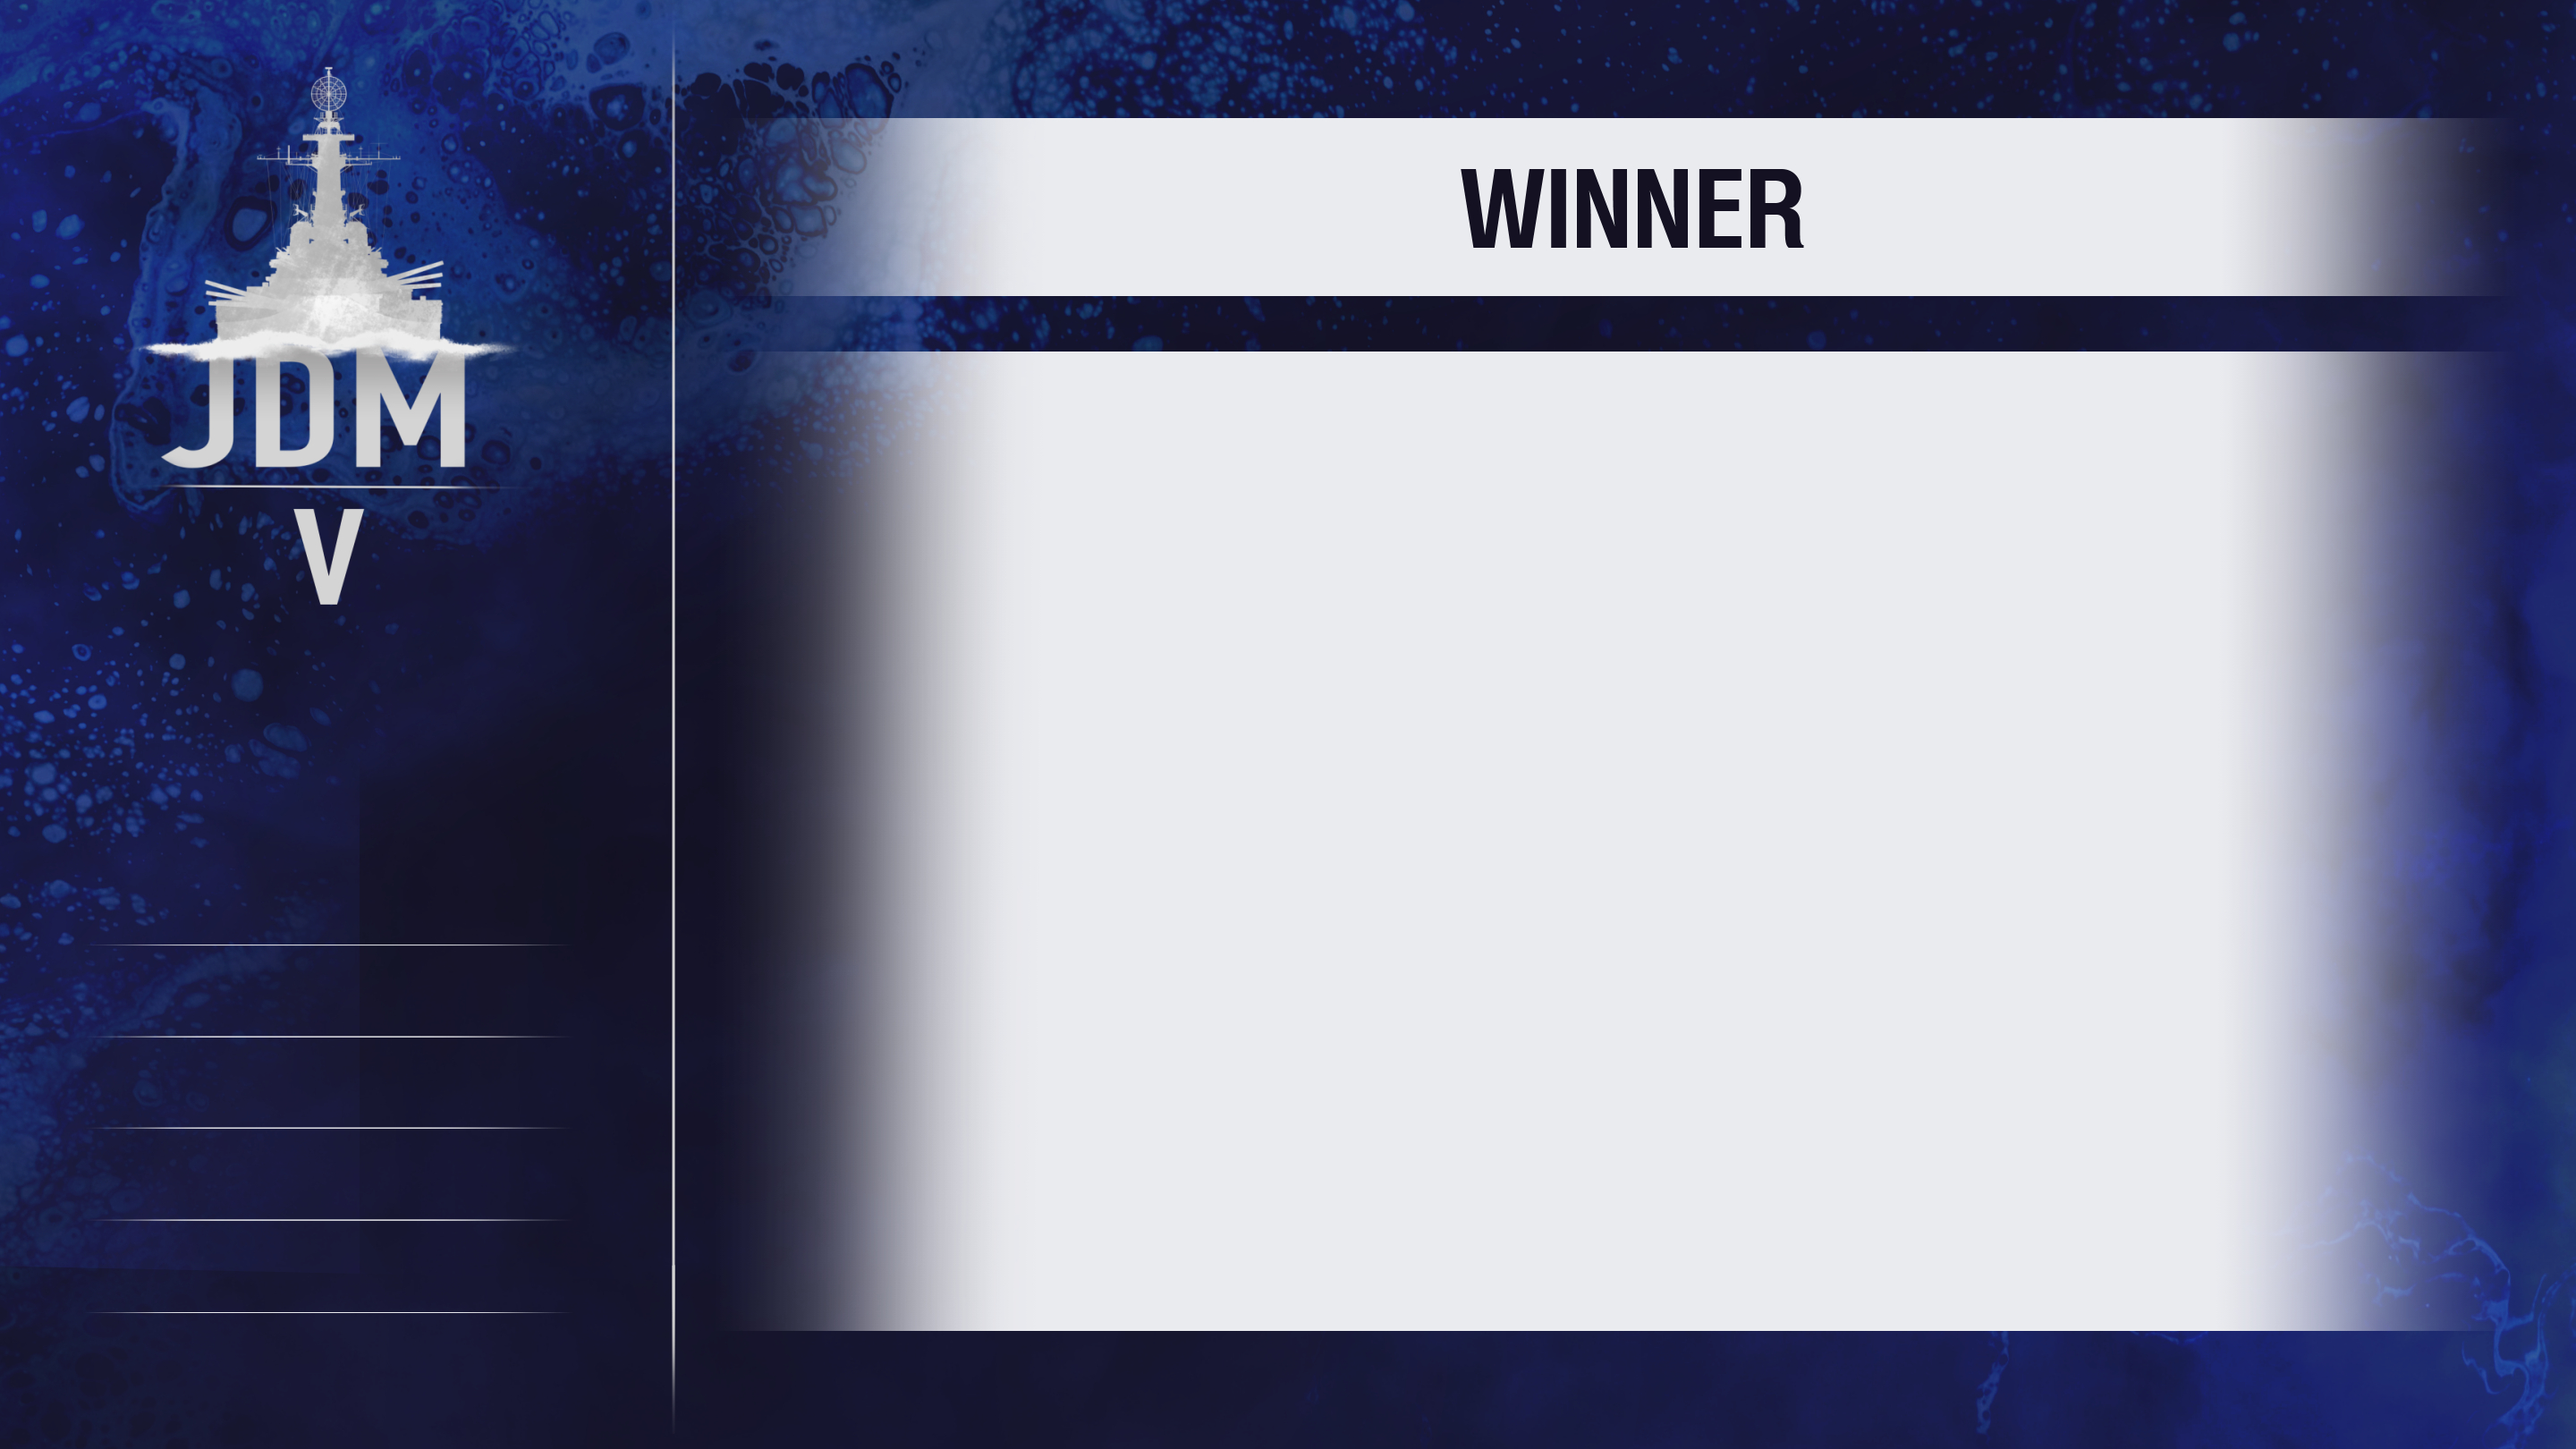
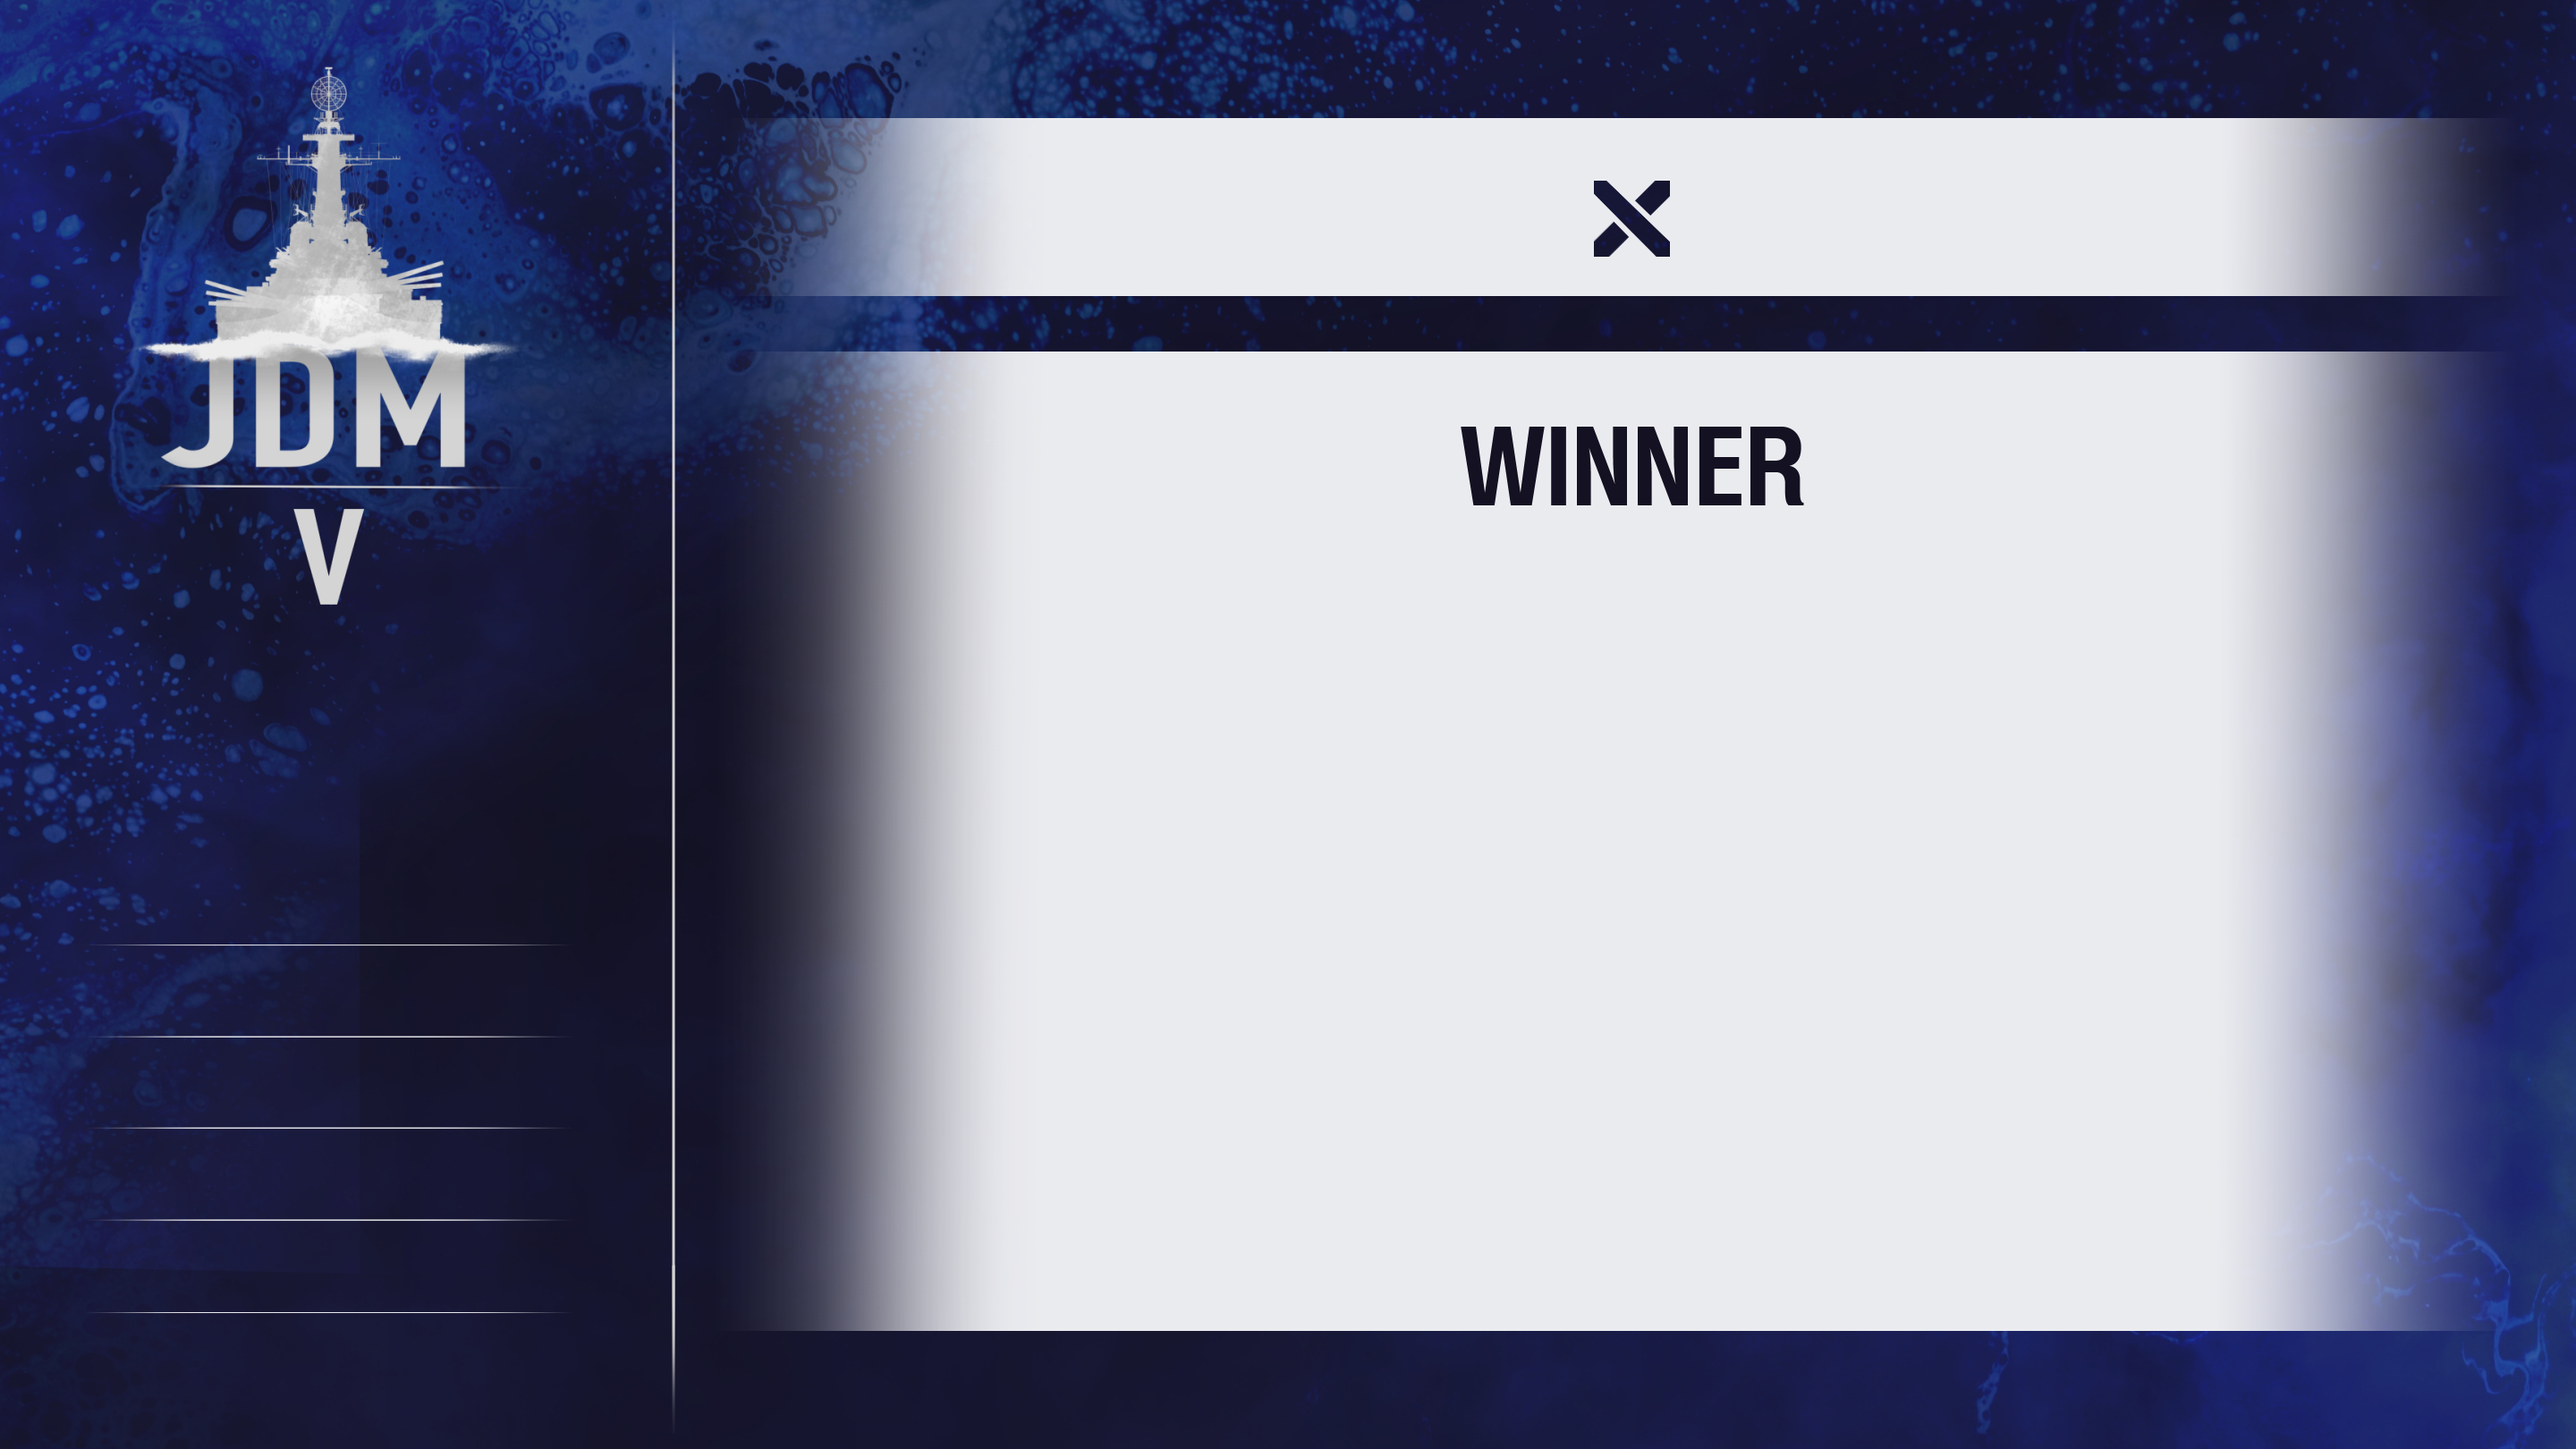
[Done] winner.html

Changed region(s): [[0.5625, 0.2778, 0.7188, 0.3704], [0.5625, 0.0926, 0.7188, 0.1852]]

diff --git a/html/winner.html b/html/winner.html
@@ -1,0 +1,22 @@
+<!DOCTYPE html>
+<html>
+    <header>
+        <meta charset="UTF-8">
+        <link rel="stylesheet" href="./css/basew.css">
+    </header>
+    <body>
+        <img src="./source/JDM5_Winner.jpg" width="100%" class="default">
+        <p style="top:3.1%; left:46%;" class="default">[JDMTM]</p>
+        <p style="top:3.1%; right:20%;" class="default">[PLJDM]</p>
+
+        <img src="./team_icon/JapanDreamMatch.jpg" width="25%" style="left:50.5%; top:38%" class="default">
+        <p style="top:75%; left:57%;" class="default">[PLJDM]</p>
+
+        <p id="room">ROOM 1</p>
+        <p class="mt_left mt_1">[EASTS]</p><p class="mt_vs mt_1">vs</p><p class="mt_right mt_1">[WESTS]</p>
+        <p class="mt_left mt_2">[TKNK]</p><p class="mt_vs mt_2">vs</p><p class="mt_right mt_2">[KNK]</p>
+        <p class="mt_left mt_3">[RED]</p><p class="mt_vs mt_3">vs</p><p class="mt_right mt_3">[BLUE]</p>
+        <p class="mt_left mt_4">[HOKO]</p><p class="mt_vs mt_4">vs</p><p class="mt_right mt_4">[TATE]</p>
+        <p class="mt_left mt_5">[A12]</p><p class="mt_vs mt_5">vs</p><p class="mt_right mt_5">[B1]</p>
+    </body>
+</html>

diff --git a/html/css/basew.css b/html/css/basew.css
@@ -1,0 +1,67 @@
+@font-face {
+	font-family: 'Warhelios_Bold';
+	src: url(./Warhelios_Bold.ttf);
+}
+
+body {
+	font-family: Warhelios_Bold;	
+}
+
+body *{
+	position: absolute;
+}
+
+body *.default{
+	font-size: 3.8vw;
+	color: #141122;
+}
+
+.mt_left{
+	font-size: 2.4vw;
+	color: white;
+	width: 8%;
+	left: 3.5%;
+	/* border: medium dashed green; */
+}
+
+.mt_vs{
+	font-size: 2.4vw;
+	color: white;
+	width: 2%;
+	left: 12%;
+}
+
+.mt_right{
+	font-size: 2.4vw;
+	color: white;
+	width: 8%;
+	left: 14.5%;
+	text-align: right;
+}
+
+.mt_1{
+	top:55.2%;
+}
+
+.mt_2{
+	top:61.5%;
+}
+
+.mt_3{
+	top:67.8%;
+}
+
+.mt_4{
+	top:74.1%;
+}
+
+.mt_5{
+	top:80.4%;
+}
+
+#room {
+	font-size: 3vw;
+	color: white;
+	top:45%;
+	left:9%;
+}

diff --git a/html/game.html b/html/game.html
@@ -2,11 +2,11 @@
 <html>
     <header>
         <meta charset="UTF-8">
-        <link rel="stylesheet" href="./css/font.css">
+        <link rel="stylesheet" href="./css/baseg.css">
     </header>
     <body>
-        <img src="./source/Footer.png" style="position: absolute; top:88%;">
-        <p style="position: absolute; top:82.5%; left:36%;">JDMTM</p>
-        <p style="position: absolute; top:82.5%; right:37%;">PLJDM</p>
+        <img src="./source/Footer.png" style="position: absolute; top:87%;" class="default">
+        <p style="position: absolute; top:82.3%; left:34%;" class="default">[JDMTM]</p>
+        <p style="position: absolute; top:82.3%; right:35%;" class="default">[PLJDM]</p>
     </body>
 </html>

diff --git a/html/css/baseg.css b/html/css/baseg.css
@@ -1,0 +1,17 @@
+@font-face {
+	font-family: 'Warhelios_Bold';
+	src: url(./Warhelios_Bold.ttf);
+}
+
+body {
+	font-family: Warhelios_Bold;	
+}
+
+body *{
+	position: absolute;
+}
+
+body *.default{
+	font-size: 3.5vw;
+	color: #141122;
+}
